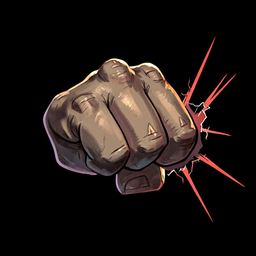
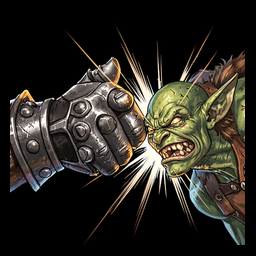
fix: Pummel animace = zatřesení nepřítele místo projektilu; nová ikona Pummelu (kovová rukavice 5 prstů udeří do tváře skřeta)

diff --git a/src/game.ts b/src/game.ts
@@ -4597,8 +4597,13 @@ export function initGame() {
       mb._enemyCastBlockedUntil = performance.now() + blockTicks * (1000/60);
       mb._enemyCastBlockedTicks = blockTicks;
       _sessionDebuffs['pummel'] = { icon: '👊', name: `Pummel (recast block ${2+lv}s)`, ticks: blockTicks, maxTicks: blockTicks };
-      // Animace
-      spawnProjectileEffect(null, false, false, ATTACK_TYPES.MELEE);
+      // Animace — zatřást nepřítelem (fyzický úder), místo projektilu
+      const fig = $('mbFigure');
+      if (fig) {
+        fig.classList.remove('figure-shake');
+        void fig.offsetWidth; // restart animace
+        fig.classList.add('figure-shake');
+      }
       spawnFloatingText('👊', 'right', '#e67e22', 40, 800, 'assets/spells/pummel.png');
     } else if (spellId === 'spellReflect') {
       // Spell Reflect — pouze se štítem; odrazí ofensivní kouzlo zpět na nepřítele

diff --git a/public/style.css b/public/style.css
@@ -150,6 +150,9 @@ body.no-scroll { overflow: hidden; }
 .monster-appear { animation: monsterAppear 0.5s ease-out; }
 @keyframes figureHitFlash { 0%,100%{filter:brightness(1)} 50%{filter:brightness(2.5) saturate(1.8)} }
 .figure-hit { animation: figureHitFlash 0.15s ease-out; }
+/* Interrupt — nepřítel se zatřese, jako by ho někdo fyzicky udeřil */
+@keyframes figureShake { 0%{transform:translate(-50%,-50%) translateX(0)} 15%{transform:translate(-50%,-50%) translateX(-8px)} 30%{transform:translate(-50%,-50%) translateX(7px)} 45%{transform:translate(-50%,-50%) translateX(-6px)} 60%{transform:translate(-50%,-50%) translateX(4px)} 75%{transform:translate(-50%,-50%) translateX(-3px)} 100%{transform:translate(-50%,-50%) translateX(0)} }
+.figure-shake { animation: figureShake 0.4s ease-out; }
 
 /* Simon */
 .simon-grid { display: grid; gap: 6px; max-width: 240px; margin: 16px auto; }

diff --git a/public/sw.js b/public/sw.js
@@ -1,7 +1,7 @@
-const CODE_CACHE = 'boss-slayer-code-v180';
-const ASSET_CACHE = 'boss-slayer-assets-v41';
+const CODE_CACHE = 'boss-slayer-code-v181';
+const ASSET_CACHE = 'boss-slayer-assets-v42';
 
-const CODE_FILES = ['/', '/index.html', '/style.css?v=146', '/manifest.json', '/item-reference.html'];
+const CODE_FILES = ['/', '/index.html', '/style.css?v=147', '/manifest.json', '/item-reference.html'];
 
 const ASSET_FILES = [
   '/icon-192.png', '/icon-512.png',

diff --git a/index.html b/index.html
@@ -5,7 +5,7 @@
   <meta name="viewport" content="width=device-width,initial-scale=1.0,user-scalable=no">
   <title>Dungeon Recall</title>
   <link rel="manifest" href="manifest.json">
-  <link rel="stylesheet" href="style.css?v=146">
+  <link rel="stylesheet" href="style.css?v=147">
   <style>
     .town-action-card {
       display:flex;align-items:center;gap:16px;
